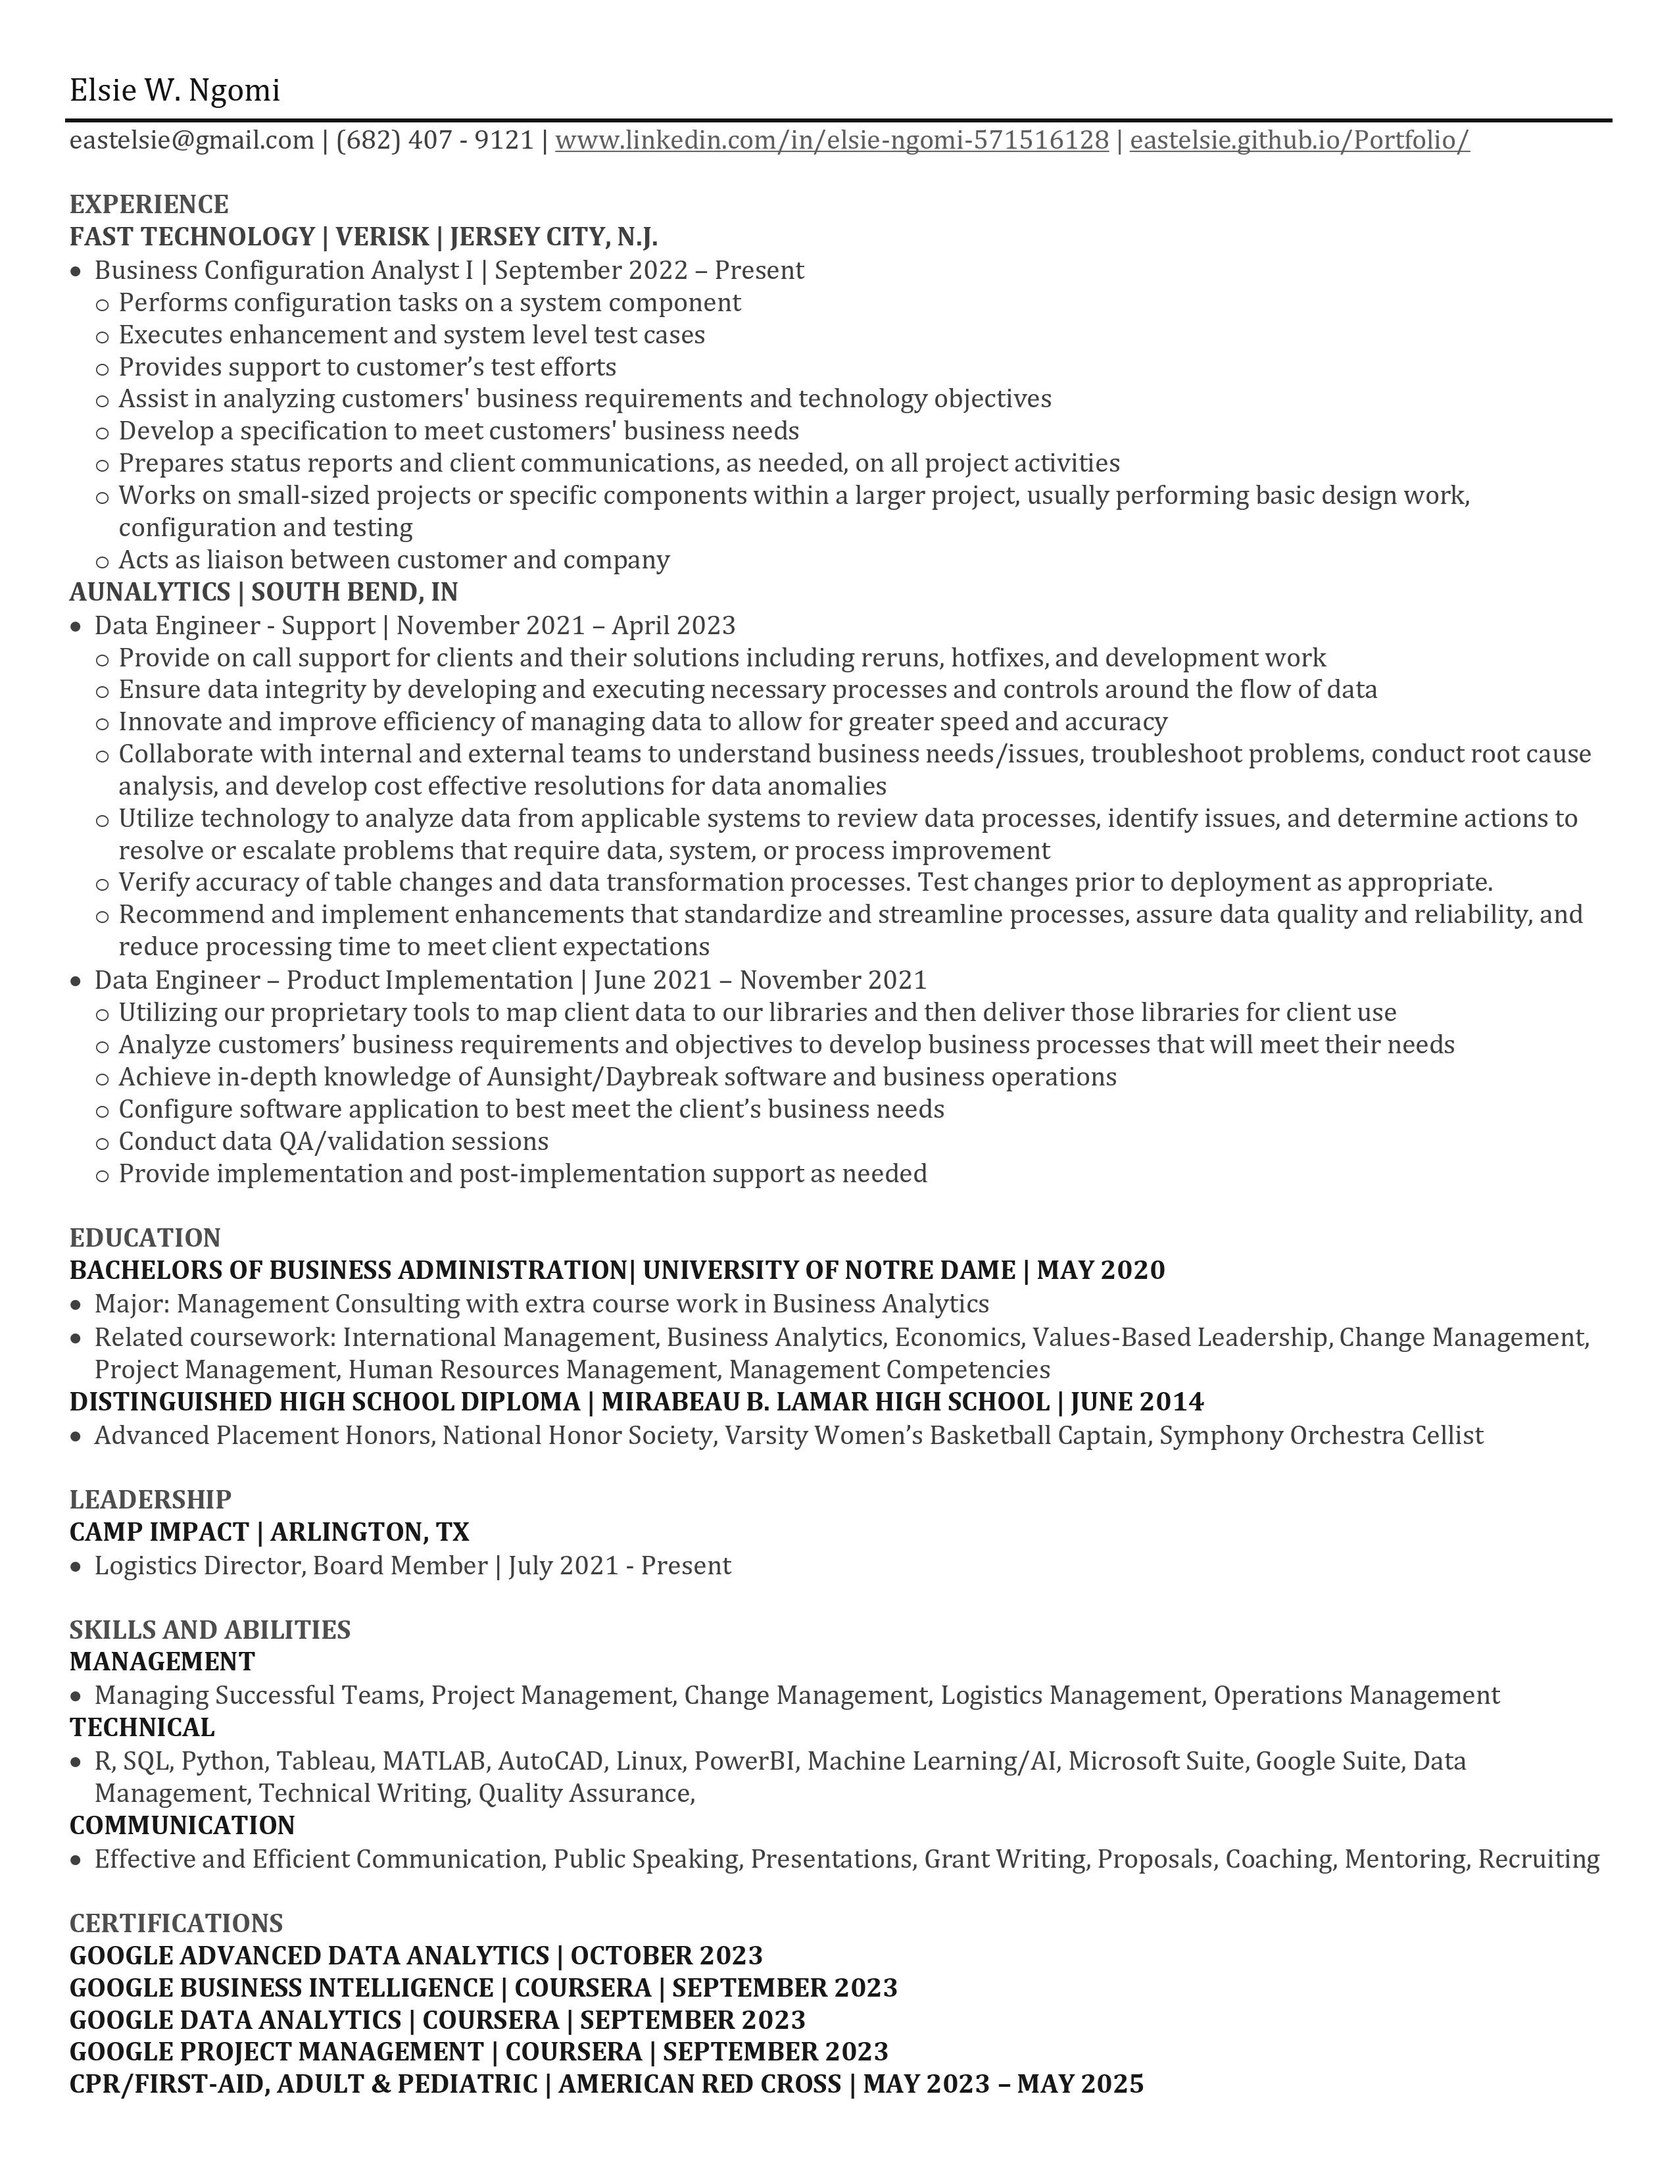
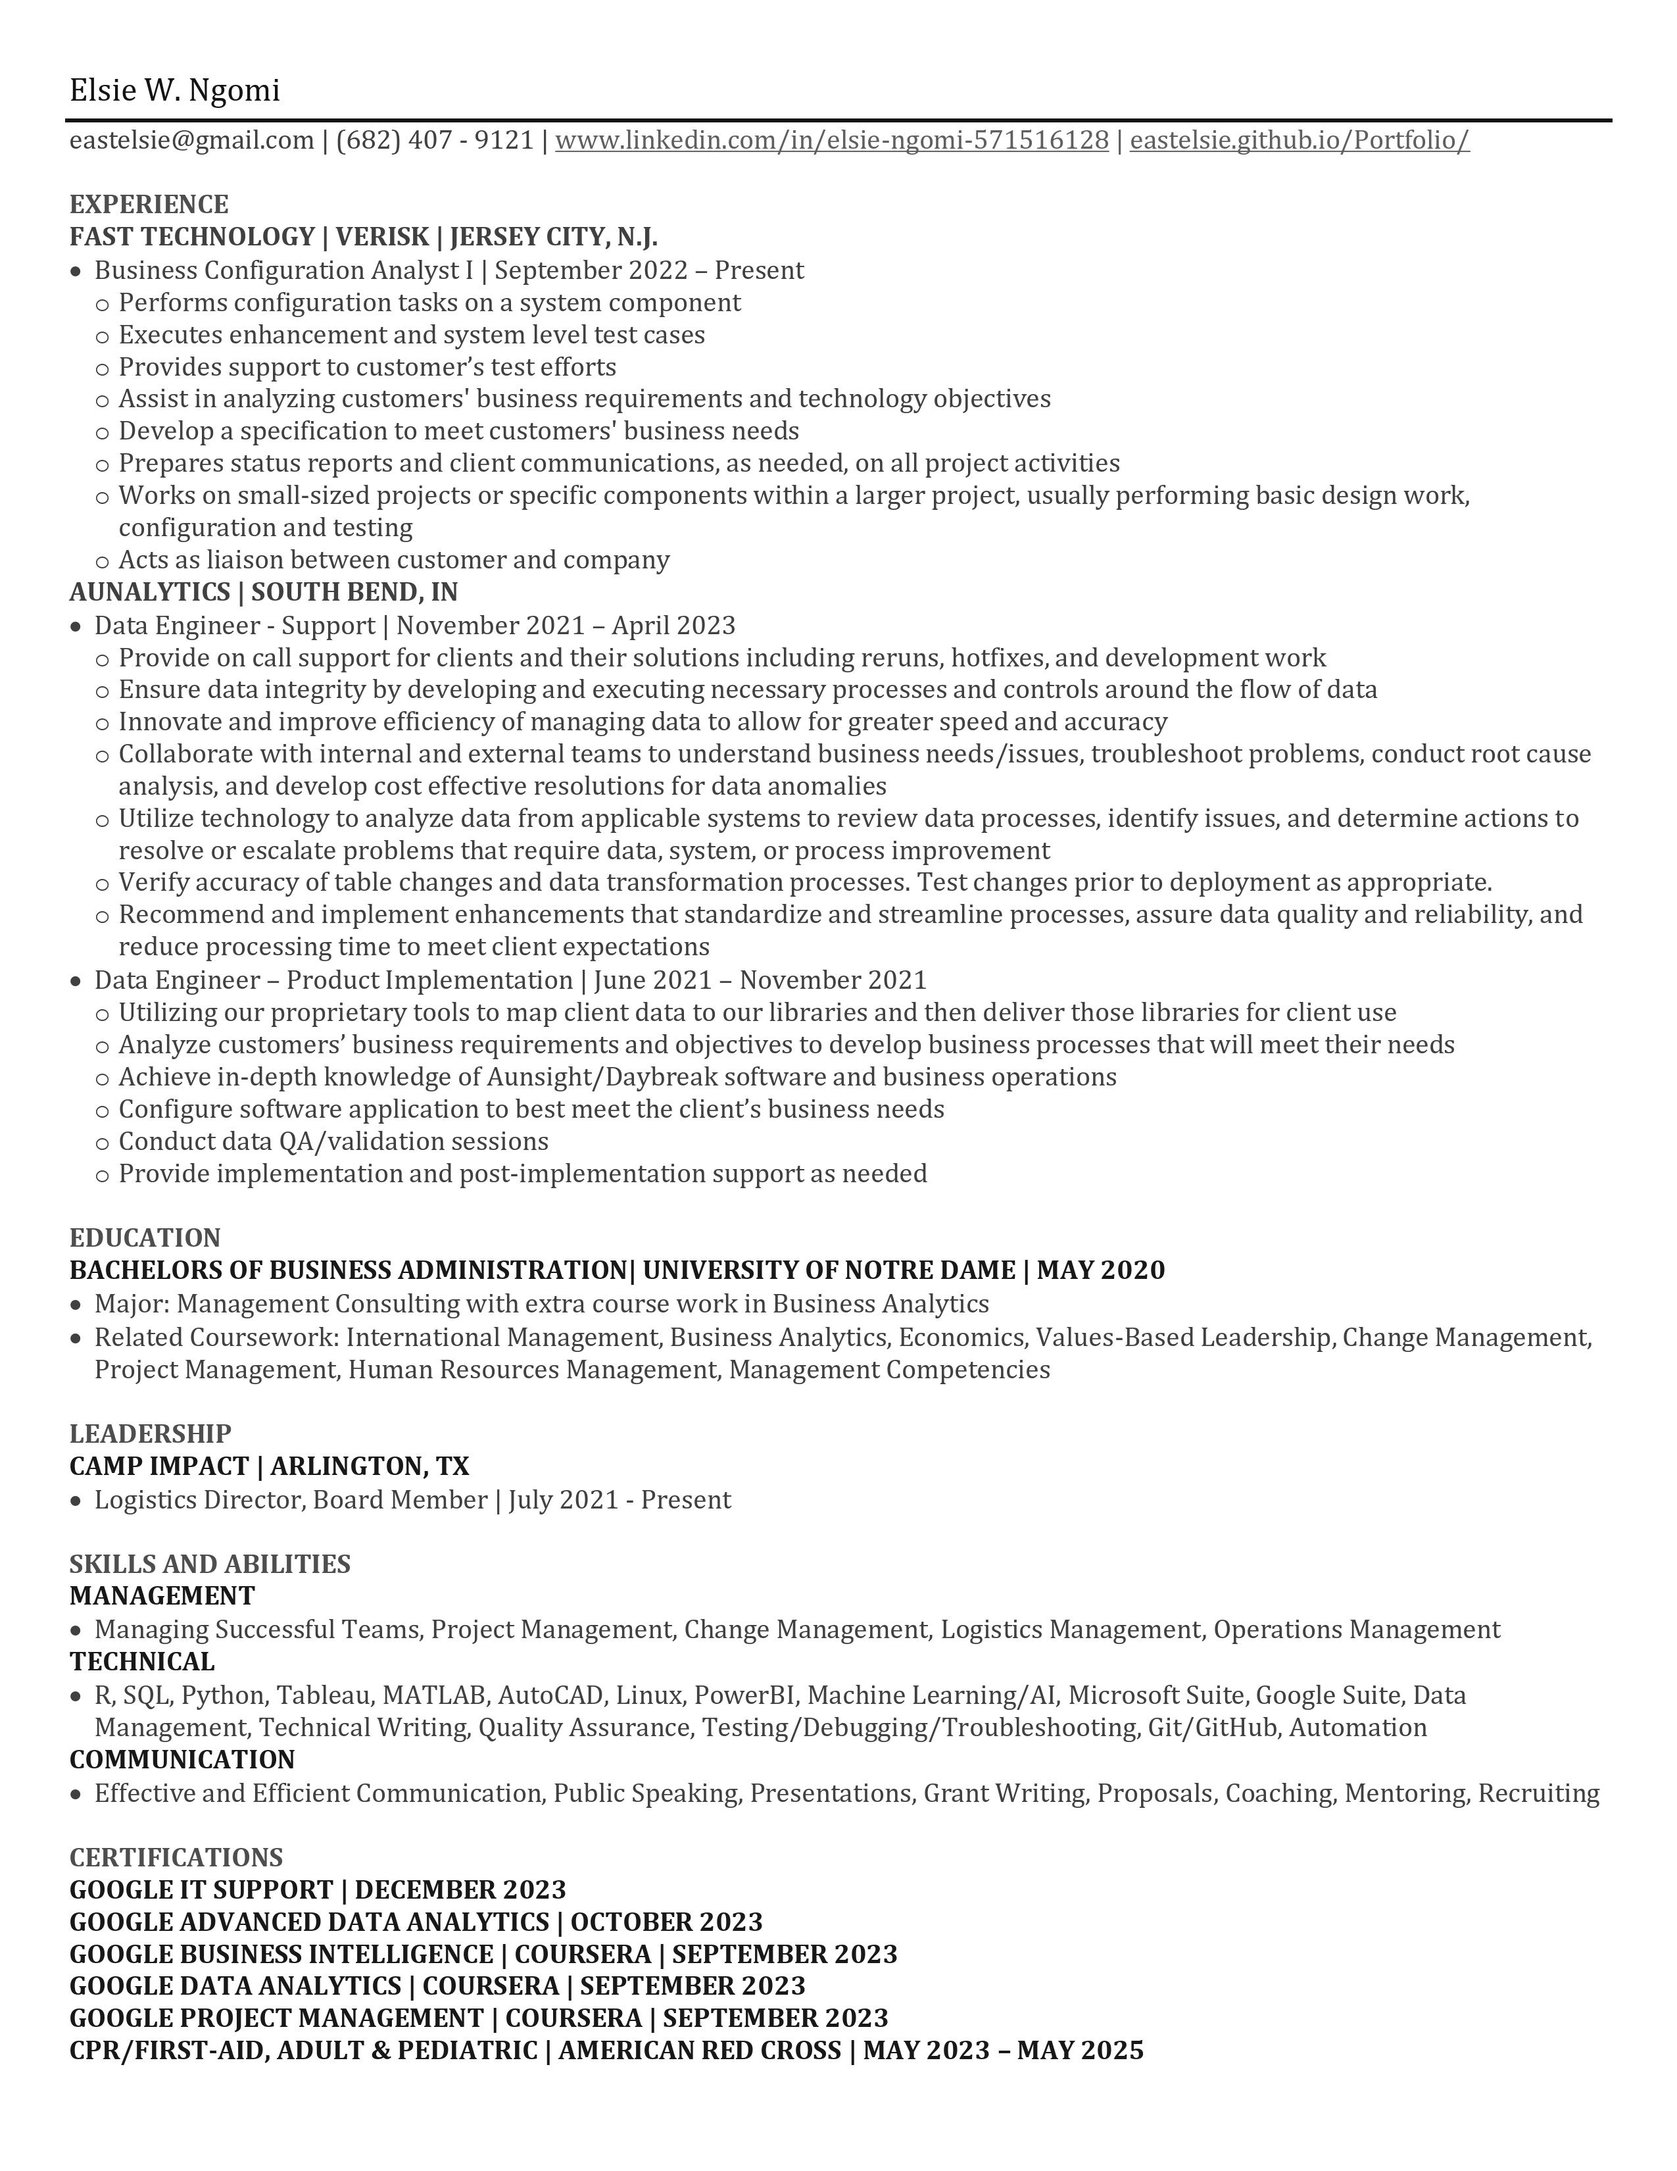
update for it support cert

Changed region(s): [[0.031, 0.593, 0.9294, 0.9676], [0.7125, 0.6555, 0.7435, 0.6867]]

diff --git a/index.html b/index.html
@@ -181,9 +181,8 @@ https://templatemo.com/tm-555-upright
                                     Management Professional Certificate solidifying the competencies I learned in my undergraduate 
                                     education. I have also earned the Google Data Analytics and Google Business Intelligence 
                                     Professional Certificates to improve my skills in my current position as a Business Analyst. As 
-                                    stated before, I am constantly learning and improving my skills and effectiveness and am 
-                                    currently pursuing the Google Advanced Data Analytics Professional Certificate and the Project 
-                                    Management Professional (PMP) certification.
+                                    stated before, I am constantly learning and improving my skills and effectiveness and this portfolio
+                                    will be updated as I gain new skills and experiences.
                                 </p>
                                 </div>
                             </div>
@@ -461,31 +460,38 @@ https://templatemo.com/tm-555-upright
                                         </figcaption>			
                                     </figure> 
                                     <figure class="effect-honey tm-gallery-item resume">
-                                        <img src="img/work/Elsie Ngomi Federal Resume_page-0001.jpg" width="270" height="180" alt="Image"/>
+                                        <img src="img/work/Elsie Ngomi Federal Resume-0001.jpg" width="270" height="180" alt="Image"/>
                                         <figcaption>
                                             <h2><i>Federal Resume Page 1</i></h2>
-                                            <a href="img/work/Elsie Ngomi Federal Resume_page-0001.jpg">View more</a>						
+                                            <a href="img/work/Elsie Ngomi Federal Resume-0001.jpg">View more</a>						
                                         </figcaption>			
                                     </figure>
                                     <figure class="effect-honey tm-gallery-item resume">
-                                        <img src="img/work/Elsie Ngomi Federal Resume_page-0002.jpg" width="270" height="180" alt="Image"/>
+                                        <img src="img/work/Elsie Ngomi Federal Resume-0002.jpg" width="270" height="180" alt="Image"/>
                                         <figcaption>
                                             <h2><i>Federal Resume Page 2</i></h2>
-                                            <a href="img/work/Elsie Ngomi Federal Resume_page-0002.jpg">View more</a>						
+                                            <a href="img/work/Elsie Ngomi Federal Resume-0002.jpg">View more</a>						
                                         </figcaption>			
                                     </figure>
                                     <figure class="effect-honey tm-gallery-item resume">
-                                        <img src="img/work/Elsie Ngomi Federal Resume_page-0003.jpg" width="270" height="180" alt="Image"/>
+                                        <img src="img/work/Elsie Ngomi Federal Resume-0003.jpg" width="270" height="180" alt="Image"/>
                                         <figcaption>
                                             <h2><i>Federal Resume Page 3</i></h2>
-                                            <a href="img/work/Elsie Ngomi Federal Resume_page-0003.jpg">View more</a>						
+                                            <a href="img/work/Elsie Ngomi Federal Resume-0003.jpg">View more</a>						
                                         </figcaption>			
                                     </figure>  
                                     <figure class="effect-honey tm-gallery-item resume">
-                                        <img src="img/work/Elsie Ngomi Federal Resume_page-0004.jpg" width="270" height="180" alt="Image"/>
+                                        <img src="img/work/Elsie Ngomi Federal Resume-0004.jpg" width="270" height="180" alt="Image"/>
                                         <figcaption>
                                             <h2><i>Federal Resume Page 4</i></h2>
-                                            <a href="img/work/Elsie Ngomi Federal Resume_page-0004.jpg">View more</a>						
+                                            <a href="img/work/Elsie Ngomi Federal Resume-0004.jpg">View more</a>						
+                                        </figcaption>			
+                                    </figure>
+                                    <figure class="effect-honey tm-gallery-item resume">
+                                        <img src="img/work/Elsie Ngomi Federal Resume-0005.jpg" width="270" height="180" alt="Image"/>
+                                        <figcaption>
+                                            <h2><i>Federal Resume Page 4</i></h2>
+                                            <a href="img/work/Elsie Ngomi Federal Resume-0005.jpg">View more</a>						
                                         </figcaption>			
                                     </figure>
                                     <figure class="effect-honey tm-gallery-item certification">
@@ -592,6 +598,13 @@ https://templatemo.com/tm-555-upright
                                             <h2><i>Google Advanced Data Analytics Certificate</i></h2>
                                             <a href="img/work/Google_Advanced_Data_Analytics_Activity Templates_ Executive summaries_Capstone.jpg">View more</a>						
                                         </figcaption>
+                                    </figure>
+                                    <figure class="effect-honey tm-gallery-item certification">
+                                        <img src="img/work/Elsie Ngomi - Google IT Support Certificate.jpg" width="270" height="180" alt="Image"/>
+                                        <figcaption>
+                                            <h2><i>Google IT Support Certificate</i></h2>
+                                            <a href="img/work/Elsie Ngomi - Google IT Support Certificate.jpg">View more</a>						
+                                        </figcaption>			
                                     </figure>
                                 </div>
                                 <div class="text-right">
